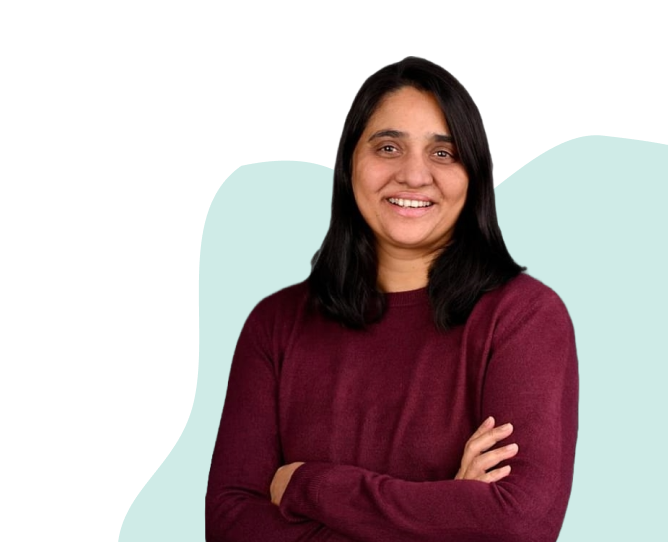
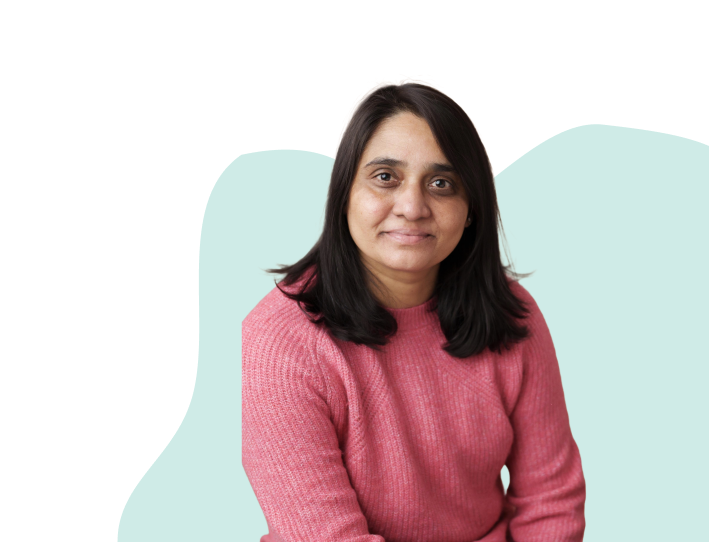
Changes in about,mainfooter,sidebar,swiper,works

diff --git a/src/components/greenFinance/GreenProjectFinancingForm.tsx b/src/components/greenFinance/GreenProjectFinancingForm.tsx
@@ -29,21 +29,25 @@ const schema = yup.object({
   gstin: yup
     .string()
     .transform((val) => (val ? val.toUpperCase() : ""))
-    .required("GST is required")
-    .matches(/^[0-9A-Za-z]*$/, "Special Characters are not allowed")
-    .test("valid-state-code", "Invalid state code in GST", (value) =>
-      value ? validGSTStateCodes.includes(value.substring(0, 2)) : false
-    )
+    .notRequired()
+    .matches(/^[0-9A-Za-z]*$/, {
+      message: "Special Characters are not allowed",
+      excludeEmptyString: true,
+    })
     .test(
-      "no-multiple-spaces",
-      "Double spaces are not allowed",
-      (value) => !/\s{2,}/.test(value || "")
+      "valid-state-code",
+      "Invalid state code in GST",
+      (value) =>
+        !value || validGSTStateCodes.includes(value.substring(0, 2))
     )
     .matches(
       /^[0-9]{2}[A-Za-z]{5}[0-9]{4}[A-Za-z]{1}[1-9]{1}[zZ]{1}[0-9A-Z]{1}$/,
-      "GST format is invalid."
+      {
+        message: "GST format is invalid",
+        excludeEmptyString: true,
+      }
     )
-    .trim("GST cannot have empty space at the start or end"),
+    .trim(),
   agreedToTerms: yup
     .boolean()
     .oneOf([true], "You must agree to the terms and conditions"),
@@ -78,13 +82,13 @@ export default function GreenProjectFinancingForm({
     if (isOpen) {
       // Store the current scroll position
       const scrollY = window.scrollY;
-      
+
       // Prevent scrolling on body and html
       document.body.style.overflow = 'hidden';
       document.body.style.position = 'fixed';
       document.body.style.top = `-${scrollY}px`;
       document.body.style.width = '100%';
-      
+
       // Also prevent scrolling on html element for better mobile support
       document.documentElement.style.overflow = 'hidden';
     } else {
@@ -95,7 +99,7 @@ export default function GreenProjectFinancingForm({
       document.body.style.top = '';
       document.body.style.width = '';
       document.documentElement.style.overflow = '';
-      
+
       // Restore scroll position
       if (scrollY) {
         window.scrollTo(0, parseInt(scrollY || '0') * -1);
@@ -110,7 +114,7 @@ export default function GreenProjectFinancingForm({
       document.body.style.top = '';
       document.body.style.width = '';
       document.documentElement.style.overflow = '';
-      
+
       if (scrollY) {
         window.scrollTo(0, parseInt(scrollY || '0') * -1);
       }
@@ -136,7 +140,7 @@ export default function GreenProjectFinancingForm({
           body: JSON.stringify({
             name: data.name,
             phoneNumber: `+91${data.phoneNumber}`,
-            gstNumber: data.gstin,
+             gstNumber: data.gstin ? data.gstin : "",
           }),
         }
       );
@@ -164,7 +168,7 @@ export default function GreenProjectFinancingForm({
   if (!isOpen) return null;
 
   return (
-    <div 
+    <div
       className="fixed inset-0 z-[60] flex items-center justify-center bg-black bg-opacity-50 overflow-hidden touch-none"
       style={{ touchAction: 'none' }}
     >
@@ -191,9 +195,9 @@ export default function GreenProjectFinancingForm({
         </div>
 
         {/* Form - Scrollable */}
-        <div 
+        <div
           className="px-6 md:px-20 py-4 md:py-6 overflow-y-auto flex-1 overscroll-contain"
-          style={{ 
+          style={{
             WebkitOverflowScrolling: 'touch',
             scrollbarWidth: 'none',
             msOverflowStyle: 'none'
@@ -255,14 +259,13 @@ export default function GreenProjectFinancingForm({
             {/* GSTIN */}
             <div>
               <label className="block text-brown font-medium mb-2">
-                GSTIN*
+                GSTIN
               </label>
               <input
                 type="text"
                 {...register("gstin")}
                 placeholder="Enter GSTIN"
                 className="w-full px-4 py-3 border bg-cream border-gray-300 rounded-lg focus:outline-none focus:ring-1 focus:ring-green-500 focus:border-transparent"
-                required
                 onInput={(e) => {
                   e.currentTarget.value = e.currentTarget.value.toUpperCase();
                 }}
@@ -313,9 +316,8 @@ export default function GreenProjectFinancingForm({
             <button
               type="submit"
               disabled={loading}
-              className={`w-full bg-primary text-cream py-4 rounded-lg font-semibold text-lg transition-all duration-200 ${
-                loading ? "opacity-50 cursor-not-allowed" : "cursor-pointer"
-              }`}
+              className={`w-full bg-primary text-cream py-4 rounded-lg font-semibold text-lg transition-all duration-200 ${loading ? "opacity-50 cursor-not-allowed" : "cursor-pointer"
+                }`}
             >
               {loading ? "Submitting..." : "Submit"}
             </button>

diff --git a/src/components/about/AboutPage.tsx b/src/components/about/AboutPage.tsx
@@ -382,7 +382,7 @@ export default function Page() {
                   <div className="flex flex-col md:flex-row gap-4">
                     <CustomButton
                       onPress={() => {
-                        window.location.href = "https://vendor.hubeco.market/login";
+                        window.location.href =`${process.env.NEXT_PUBLIC_VENDOR_URL}/login`;
                       }}
                       title={"Vendor Connect"}
                       className="text-white bg-primary hover:bg-primary font-semibold h-12 w-full md:w-40 text-sm md:text-md"

diff --git a/src/components/footer/MainFooter.tsx b/src/components/footer/MainFooter.tsx
@@ -184,7 +184,7 @@ const Footer = () => {
                 <li><Link className="text-brown whitespace-nowrap" href="/green-financing">Green Financing</Link></li>
                 <li>
                   <a
-                    href="https://vendor.hubeco.market/login"
+                    href={`${process.env.NEXT_PUBLIC_VENDOR_URL}/login`}
                     className="text-brown whitespace-nowrap"
                   >
                     Vendor Connect

diff --git a/src/components/home/imageCarousel/Swiper.tsx b/src/components/home/imageCarousel/Swiper.tsx
@@ -133,7 +133,7 @@ const ImageSlider = () => {
                  w-full lg:w-auto 
                  lg:px-[20px] lg:py-[18px] py-[10px] px-[20px] text-[17px] font-medium
                  rounded-md whitespace-nowrap"
-      onClick={() => window.location.href = "https://vendor.hubeco.market/login"}
+      onClick={() => window.location.href = `${process.env.NEXT_PUBLIC_VENDOR_URL}/login`}
     >
       Partner with Us
     </motion.button>

diff --git a/src/components/home/works/Works.tsx b/src/components/home/works/Works.tsx
@@ -161,7 +161,7 @@ const WorksSection = () => {
   {/* Left Div */}
   <div className="flex lg:flex-row flex-col justify-start lg:gap-[162px]">
   <div className="relative z-10  ">
-    <h2 className="text-center text-[28px] text-brown pb-3 lg:text-left lg:text-[43px] lg:pb-5">
+    <h2 className="text-center text-[43px] text-brown pb-3 lg:text-left lg:text-[43px] lg:pb-5">
       How it Works
     </h2>
 

diff --git a/src/components/header/MainHeader.tsx b/src/components/header/MainHeader.tsx
@@ -1404,7 +1404,7 @@ const LoginPopup = ({
             <button
               onClick={() => {
                 onOpenChange(false);
-                window.location.href = "https://vendor.hubeco.market/login";
+                window.location.href = `${process.env.NEXT_PUBLIC_VENDOR_URL}/login`;
               }}
               className="
                 group

diff --git a/src/components/header/SidebarMenu.tsx b/src/components/header/SidebarMenu.tsx
@@ -108,7 +108,7 @@ const SidebarMenu: React.FC<SidebarMenuProps> = ({ isOpen, onClose }) => {
       },
       {
         title: "Vendor Connect",
-        link: "https://vendor.hubeco.market/login",
+        link: `${process.env.NEXT_PUBLIC_VENDOR_URL}/login`,
         mb: true,
         level: 1,
         submenu: [],
